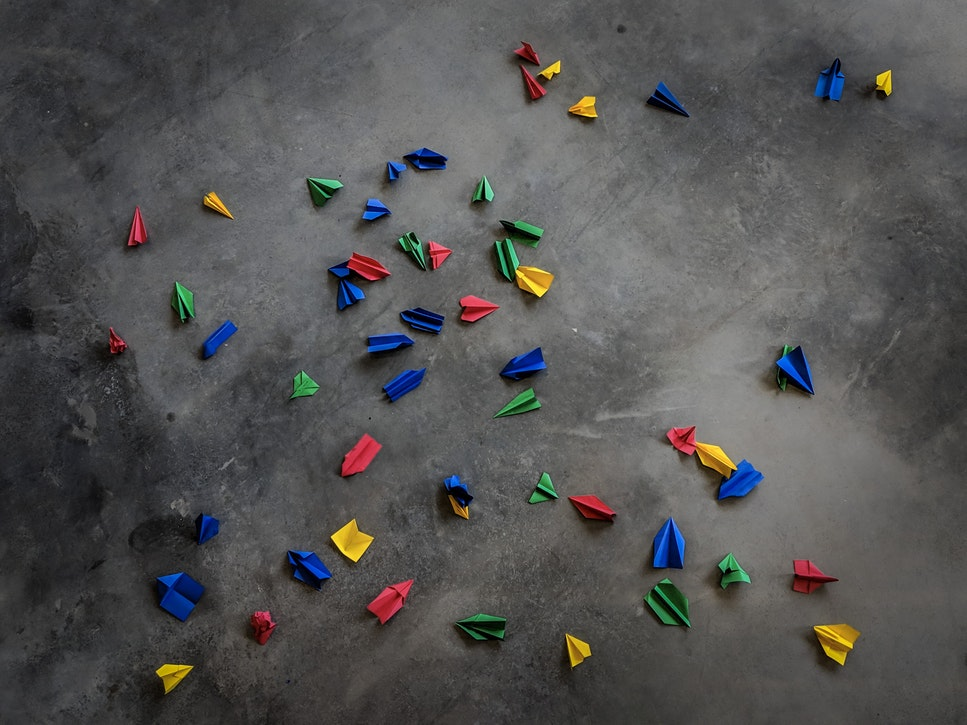
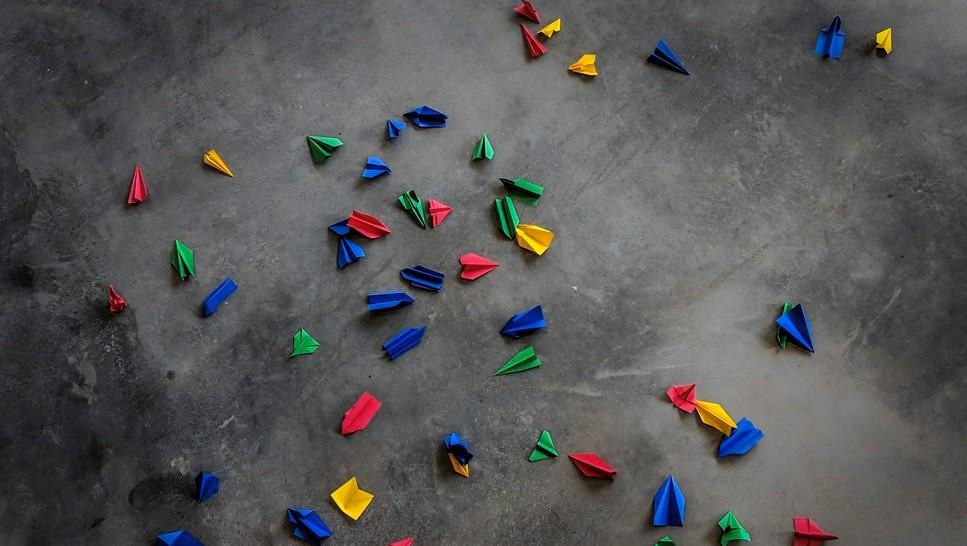
updated teaser photo

diff --git a/_posts/2019-2-10-simple-way-to-access-google-api.md b/_posts/2019-2-10-simple-way-to-access-google-api.md
@@ -1,6 +1,6 @@
 ---
 header:
-  teaser: /assets/images/post/2019-2-10-simple-way-to-access-google-api/teaser-photo.png
+  teaser: /assets/images/post/2019-2-10-simple-way-to-access-google-api/teaser-photo.jpg
 title: "Simple way to access to Google Service API"
 categories:
   - learning
